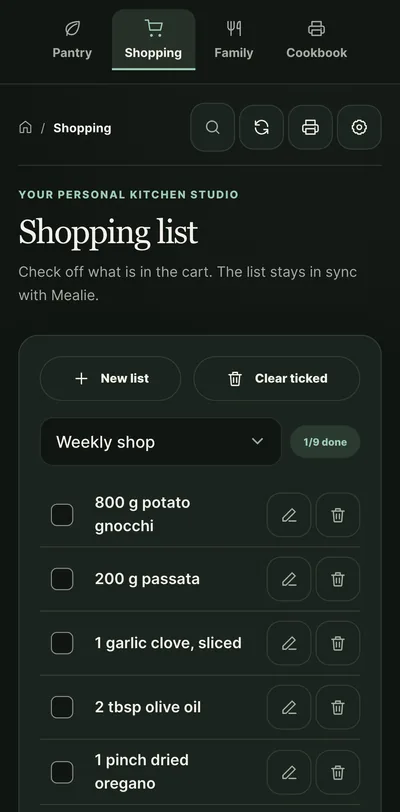
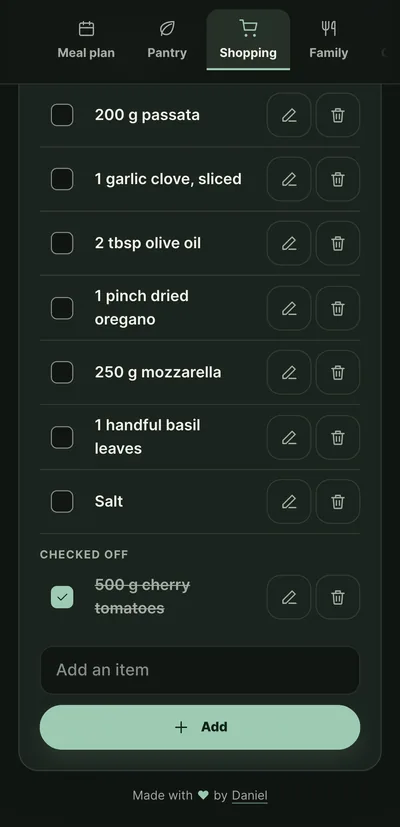
Rework the hero stage: readable devices up to 1279px, visible done item, clean phone capture, dial and entrance fixes

diff --git a/demo/live-demo.css b/demo/live-demo.css
@@ -562,7 +562,7 @@ h2 em {
    Dark only, like the rest of the page. */
 .hero-stage {
   position: relative;
-  aspect-ratio: 100 / 84;
+  aspect-ratio: 100 / 76;
   container-type: inline-size;
   isolation: isolate;
 }
@@ -570,15 +570,12 @@ h2 em {
   display: none;
   position: absolute;
   z-index: -1;
-  left: -4cqi;
-  top: 6cqi;
-  width: 74cqi;
   height: auto;
   pointer-events: none;
 }
 .hero-stage .dial path {
   fill: none;
-  stroke: rgba(242, 233, 216, 0.07);
+  stroke: rgba(242, 233, 216, 0.14);
   stroke-width: 0.9;
   stroke-linecap: round;
 }
@@ -683,7 +680,7 @@ h2 em {
   justify-content: space-between;
   height: calc(var(--w) * 0.128);
   padding: 0 calc(var(--w) * 0.09) 0 calc(var(--w) * 0.11);
-  background: #111713;
+  background: #121714;
   color: #f3f0e8;
   font: 600 calc(var(--w) * 0.043) / 1 var(--sans);
   letter-spacing: -0.01em;
@@ -720,25 +717,27 @@ h2 em {
   background: rgba(243, 240, 232, 0.85);
   z-index: 1;
 }
-@media (min-width: 981px) {
+/* Two columns only from 1280px: below that the devices would get less than 450px and the app text
+   on them less than 7px, so the stage sits under the copy at a readable width. */
+@media (min-width: 1280px) {
   .hero-grid {
     grid-template-columns: minmax(0, 4.6fr) minmax(0, 7.4fr);
   }
-}
-@media (min-width: 1280px) {
   .hero-stage {
     margin-right: -40px;
   }
 }
-@media (max-width: 980px) {
+@media (max-width: 1279px) {
   .hero-grid {
     grid-template-columns: 1fr;
   }
   .hero-stage {
-    margin-top: 16px;
+    width: 100%;
+    max-width: 880px;
+    margin: 16px auto 0;
   }
 }
-/* Phone: the tablet is not rendered (and not downloaded), the phone shows the list whole in front of the Week Dial. */
+/* Phone: the tablet is not rendered (and not downloaded), the phone stands in front of the Week Dial. */
 @media (max-width: 640px) {
   .hero-stage {
     aspect-ratio: auto;
@@ -762,7 +761,13 @@ h2 em {
   }
 }
 /* Entrance, only when the script confirmed that motion is welcome: with reduced motion the
-   devices simply stand there. */
+   devices simply stand there. The stage keeps .rv only so the observer marks it .in: its own fade
+   and lift are off, otherwise they would nest with the devices and add to their travel. */
+.reveal-ready .hero-stage.rv {
+  opacity: 1;
+  transform: none;
+  transition: none;
+}
 .reveal-ready .hero-stage .device {
   opacity: 0;
   transition:

diff --git a/scripts/capture-hero.py b/scripts/capture-hero.py
@@ -1,7 +1,8 @@
 """Capture the two hero screens of the product page from the built public demo.
 
   hero-tablet-cook     cooking mode of Gnocchi alla Sorrentina, step 1, kitchen timer reading 07:28
-  hero-phone-shopping  shopping list "Wocheneinkauf" filled from the same recipe, one item ticked
+  hero-phone-shopping  shopping list "Wocheneinkauf" filled from the same recipe, one item ticked, shown at
+                       the end of the list so the done section is on screen under the sticky tab rail
 
 The shots come from the real cards with the fixture data of the demo, a frozen clock and no pixel
 retouching. Every gate below fails the run instead of fixing a picture afterwards.
@@ -31,6 +32,14 @@ RECIPE = "gnocchi-alla-sorrentina"
 CLOCK = datetime.datetime(2026, 10, 26, 18, 52, 0)
 TABLET_WIDTHS = [800, 1200, 1600]
 PHONE_WIDTHS = [400, 700, 1179]
+# 1180 x 880: the dialog is then high enough for the step column down to its footnote. The Back and Next
+# bar sits below the dialog edge at every height from 701 px up (product layout), so the clip ends under the
+# footnote, a little before that bar, and the gate below checks that nothing inside the clip is cut.
+TABLET_VIEWPORT = {"width": 1180, "height": 880}
+FOOT_MARGIN = 5  # CSS px between the footnote and the lower clip edge
+# Viewport heights tried for the phone (CSS px, 393 wide, status bar drawn by the page not counted). The shot
+# ends at the end of the card; the height decides where the tab rail cuts the list, see PLACE_JS.
+PHONE_HEIGHTS = list(range(760, 861))
 SHAVE = 2  # device pixels cut from each side of the dialog clip (anti aliased edge)
 
 TEXT = {
@@ -47,19 +56,25 @@ FILL = (
 )
 # Capture only: the dialog is framed by the CSS device, so its own corners and border are removed.
 MODAL_FLAT = ".modal{border-radius:0!important;border:0!important;box-shadow:none!important}"
-# Capture only: the rail would fade its outer tabs, a tab at the edge would then read as cut.
-# Capture only: the screen is framed by the CSS device, so the card draws no border line of its own.
-CARD_FLAT = ".atelier{border:0!important;border-radius:0!important;box-shadow:none!important}"
-RAIL_PLAIN = ".sidebar .nav{-webkit-mask-image:none!important;mask-image:none!important;scroll-behavior:auto!important;scroll-snap-type:none!important}"
+# Capture only: the screen is framed by the CSS device, so the card draws no border line of its own. Its
+# `overflow: hidden` would make the card the scroll container of the sticky tab rail, so the rail would scroll
+# away inside the fixed capture box. Without it the rail sticks to the box, as it sticks to the page on a phone.
+CARD_FLAT = ".atelier{border:0!important;border-radius:0!important;box-shadow:none!important;overflow:visible!important}"
+# The phone tab rail fades 32 px at each end and snaps its tabs after that fade (product CSS in
+# polish.css). Nothing of the rail is restyled for the capture: only its scroll position is chosen, see RAIL_JS.
+RAIL_FADE = 32
+RAIL_CLEAR = 22  # the product mask is fully transparent up to here at the left end
 
-CUT_JS = """(card, sel) => {
+CUT_JS = """(card, opts) => {
+  // opts.sel: element that frames the shot (default the viewport); opts.top / opts.bottom: shot edges inside it.
   const out = [];
+  const sel = opts.sel;
   const frame = sel ? card.shadowRoot.querySelector(sel).getBoundingClientRect() : { left: 0, top: 0, right: innerWidth, bottom: innerHeight };
-  const view = { l: frame.left, t: frame.top, w: frame.right, h: frame.bottom };
+  const view = { l: frame.left, t: opts.top ?? frame.top, w: frame.right, h: opts.bottom ?? frame.bottom };
   const walk = (root) => {
     for (const el of root.querySelectorAll('*')) {
       if (el.shadowRoot) walk(el.shadowRoot);
-      if (!el.matches('button,input,label,p,h1,h2,h3,strong,small,time,span,a')) continue;
+      if (!el.matches('button,input,label,p,h1,h2,h3,strong,small,time,span,a,li')) continue;
       if (![...el.childNodes].some((n) => n.nodeType === 3 && n.textContent.trim())) continue;
       if (el.closest('.sidebar .nav')) continue; // the tab rail has its own gate
       const b = el.getBoundingClientRect();
@@ -76,36 +91,66 @@ CUT_JS = """(card, sel) => {
   return out;
 }"""
 
-RAIL_JS = """(card) => {
-  // The rail scrolls and cuts a tab at each end. Pick the run of whole tabs that holds the active
-  // one, fits the rail and shows the most tabs, then size the rail to that run and centre it.
+RAIL_JS = """(card, fade) => {
+  // Only the scroll position of the real rail is chosen: the left edge starts on a whole tab (a tab
+  // sits fully clear of the left fade), the active tab ends clear of the right fade. A tab at the right
+  // end may stay cut inside the app's own fade, that is the scroll hint of the product.
   const rail = card.shadowRoot.querySelector('.sidebar .nav');
   const base = rail.getBoundingClientRect();
   const tabs = [...rail.children].map((b) => {
     const r = b.getBoundingClientRect();
     return { text: b.textContent.trim(), left: r.left - base.left + rail.scrollLeft, width: r.width, active: b.classList.contains('active') };
   });
-  let best = null;
-  for (let i = 0; i < tabs.length; i++) {
-    for (let j = i; j < tabs.length; j++) {
-      const width = tabs[j].left + tabs[j].width - tabs[i].left;
-      const active = tabs.slice(i, j + 1).findIndex((t) => t.active);
-      if (width > rail.clientWidth || active < 0) continue;
-      const interior = active > 0 && active < j - i ? 1 : 0;
-      const score = [j - i + 1, interior, width];
-      if (!best || score.some((v, k) => (v !== best.score[k] ? v > best.score[k] : false) && score.slice(0, k).every((u, m) => u === best.score[m]))) best = { i, j, width, score };
-    }
+  const active = tabs.findIndex((t) => t.active);
+  const max = rail.scrollWidth - rail.clientWidth;
+  let target = null;
+  for (let i = 0; i <= active; i++) {
+    const left = tabs[i].left - fade;
+    if (left < 0 || left > max) continue;
+    if (tabs[active].left + tabs[active].width <= left + rail.clientWidth - fade) { target = left; break; }
   }
-  if (!best) return { failed: true };
-  rail.style.setProperty('width', best.width + 'px', 'important');
-  rail.style.setProperty('margin-inline', 'auto', 'important');
-  rail.scrollLeft = tabs[best.i].left;
+  if (target === null) return { failed: true, tabs };
+  rail.scrollTo({ left: target, behavior: 'instant' });
+  return { target };
+}"""
+
+RAIL_CHECK_JS = """(card, [fade, clear]) => {
+  const rail = card.shadowRoot.querySelector('.sidebar .nav');
   const r = rail.getBoundingClientRect();
-  const cut = [...rail.children].filter((b) => {
-    const x = b.getBoundingClientRect();
-    return (x.left < r.left - 0.5 && x.right > r.left + 0.5) || (x.left < r.right - 0.5 && x.right > r.right + 0.5);
-  }).map((b) => b.textContent.trim());
-  return { scrollLeft: rail.scrollLeft, width: best.width, cut, tabs: tabs.slice(best.i, best.j + 1).map((t) => t.text) };
+  const tabs = [...rail.children].map((b) => ({ text: b.textContent.trim(), box: b.getBoundingClientRect(), label: b.querySelector('span').getBoundingClientRect(), active: b.classList.contains('active') }));
+  // A tab at the left is clean when its label sits wholly in the opaque part (from the fade end) or
+  // wholly in the fully transparent part (the product mask is clear until 22 px).
+  const left = tabs.filter((t) => t.label.right > r.left + 0.5 && t.label.left < r.left + fade - 0.5 && t.label.right > r.left + clear).map((t) => t.text);
+  const right = tabs.filter((t) => t.box.right > r.right - fade + 0.5 && t.box.left < r.right - 0.5).map((t) => t.text);
+  const active = tabs.find((t) => t.active);
+  return {
+    scrollLeft: rail.scrollLeft,
+    cutLeft: left,
+    inRightFade: right,
+    activeClear: active.box.left >= r.left + fade - 0.5 && active.box.right <= r.right - fade + 0.5,
+    pos: tabs.map((t) => [t.text, Math.round(t.box.left - r.left), Math.round(t.box.right - r.left)]),
+    shown: tabs.filter((t) => t.box.right > r.left && t.box.left < r.right).map((t) => t.text),
+  };
+}"""
+
+
+# Scrolls the page to the end of the card and reports where the first row under the sticky tab rail
+# starts, plus every text element the rail covers half way.
+PLACE_JS = """(card) => {
+  const root = card.shadowRoot;
+  const y = Math.max(0, card.scrollHeight - card.clientHeight);
+  card.scrollTo({ top: y, behavior: 'instant' });
+  const rail = root.querySelector('.sidebar').getBoundingClientRect().bottom;
+  const rows = [...root.querySelectorAll('.shopping-row')];
+  const tops = rows.map((r) => r.getBoundingClientRect()).filter((b) => b.bottom > rail + 0.5);
+  const straddle = [];
+  for (const el of root.querySelectorAll('h2,h3,p,strong,span,small,label')) {
+    if (el.closest('.sidebar')) continue;
+    if (![...el.childNodes].some((n) => n.nodeType === 3 && n.textContent.trim())) continue;
+    const b = el.getBoundingClientRect();
+    if (b.width && b.top < rail - 0.5 && b.bottom > rail + 0.5) straddle.push(el.textContent.trim().slice(0, 30));
+  }
+  return { y, rail, firstRowTop: tops.length ? tops[0].top : null, straddle };
 }"""
 
 
@@ -124,7 +169,7 @@ def blur_everything(page, card):
     page.mouse.move(0, 0)
 
 
-def open_page(browser, loc, viewport, scale, mobile, url_tail):
+def open_page(browser, loc, viewport, scale, mobile, url_tail, style=FILL):
     ctx = browser.new_context(
         viewport=viewport,
         device_scale_factor=scale,
@@ -139,9 +184,14 @@ def open_page(browser, loc, viewport, scale, mobile, url_tail):
     page.goto(f"http://localhost:{PORT}/{loc}/{url_tail}")
     page.clock.run_for(3000)
     page.wait_for_load_state("networkidle")
-    page.add_style_tag(content=FILL)
+    page.add_style_tag(content=style)
     page.clock.run_for(800)
     card = page.locator("mealie-atelier-card")
+    for _ in range(30):
+        if page.evaluate("!!document.querySelector('mealie-atelier-card')?.shadowRoot"):
+            break
+        page.clock.run_for(500)
+        page.wait_for_timeout(100)
     # The page clock is a fake: give the recipe link time to open its dialog, step by step.
     for _ in range(30):
         if "?recipe=" not in url_tail or card.locator("[role=dialog]").count():
@@ -158,7 +208,7 @@ def check_language(loc, text):
 
 def capture_tablet(browser, loc):
     t = TEXT[loc]
-    ctx, page, card = open_page(browser, loc, {"width": 1180, "height": 820}, 2, False, f"?recipe={RECIPE}#live-demo")
+    ctx, page, card = open_page(browser, loc, TABLET_VIEWPORT, 2, False, f"?recipe={RECIPE}#live-demo")
     card.evaluate("c => { const s = document.createElement('style'); s.textContent = %s; c.shadowRoot.appendChild(s); }" % json.dumps(MODAL_FLAT))
     # Pin the page clock (it also follows real time while Playwright works) so the timer runs only
     # on the 32 seconds advanced below.
@@ -174,15 +224,21 @@ def capture_tablet(browser, loc):
     assert "01 / 03" in counter, "step counter is not 01 / 03"
     check_language(loc, counter)
     box = card.locator("[role=dialog]").first.bounding_box()
+    foot = card.evaluate(
+        "c => { const r = c.shadowRoot; const f = r.querySelector('.cook-footnote').getBoundingClientRect(); "
+        "const a = r.querySelector('.cook-actions').getBoundingClientRect(); return { bottom: f.bottom, bar: a.top }; }"
+    )
+    bottom = foot["bottom"] + FOOT_MARGIN
+    assert bottom <= foot["bar"] and bottom <= box["y"] + box["height"], f"the footnote does not fit above the action bar: {foot} {box}"
     scale = 2
     clip = {
         "x": box["x"] + SHAVE / scale,
         "y": box["y"] + SHAVE / scale,
         "width": box["width"] - 2 * SHAVE / scale,
-        "height": box["height"] - 2 * SHAVE / scale,
+        "height": bottom - box["y"] - 2 * SHAVE / scale,
     }
     png = page.screenshot(clip=clip)
-    cut = card.evaluate(CUT_JS, "[role=dialog]")
+    cut = card.evaluate(CUT_JS, {"sel": "[role=dialog]", "bottom": bottom})
     print(loc, "tablet cut:", cut or "none", "| timer", dial)
     ctx.close()
     return Image.open(io.BytesIO(png)).convert("RGB"), cut
@@ -190,7 +246,7 @@ def capture_tablet(browser, loc):
 
 def capture_phone(browser, loc):
     t = TEXT[loc]
-    ctx, page, card = open_page(browser, loc, {"width": 393, "height": 798}, 3, True, f"?recipe={RECIPE}#live-demo")
+    ctx, page, card = open_page(browser, loc, {"width": 393, "height": PHONE_HEIGHTS[0]}, 3, True, f"?recipe={RECIPE}#live-demo")
     dialog = card.locator("[role=dialog]")
     submit = dialog.locator("button:not([data-action])")
     card.locator("[data-action='cook-to-recipe']").click()
@@ -225,16 +281,36 @@ def capture_phone(browser, loc):
     assert count == 9, f"the new list holds {count} items, expected the nine Gnocchi ingredients"
     card.locator("[data-action='shopping-toggle']").nth(1).click()  # tick the tomatoes, stays in the list
     page.clock.run_for(1200)
-    card.evaluate("c => { const s = document.createElement('style'); s.textContent = %s; c.shadowRoot.appendChild(s); }" % json.dumps(CARD_FLAT + RAIL_PLAIN))
-    card.evaluate("c => c.scrollTo && c.scrollTo(0, 0)")
-    rail = card.evaluate(RAIL_JS)
-    assert rail and not rail.get("failed") and not rail["cut"], f"tab rail has a cut label: {rail}"
+    page.clock.run_for(7000)  # the "saved" toast of the tick leaves on its own
+    card.evaluate("c => { const s = document.createElement('style'); s.textContent = %s; c.shadowRoot.appendChild(s); }" % json.dumps(CARD_FLAT))
+    # Real phone behaviour: the content scrolls, the tab rail stays on top. The shot shows the end of the list
+    # with the done section. A viewport height is chosen where the rail covers no row half way.
+    placed = None
+    tried = []
+    for height in PHONE_HEIGHTS:
+        page.set_viewport_size({"width": 393, "height": height})
+        page.clock.run_for(400)
+        info = card.evaluate(PLACE_JS)
+        tried.append((height, info))
+        if not info["straddle"] and info["firstRowTop"] is not None and -3 <= info["firstRowTop"] - info["rail"] <= 4:
+            placed = (height, info)
+            break
+    assert placed, f"no viewport height lets the tab rail end between two rows: {[(h, round(i["firstRowTop"] - i["rail"], 1), i["straddle"]) for h, i in tried[::4]]}"
+    page.clock.run_for(400)
+    rail_move = card.evaluate(RAIL_JS, RAIL_FADE)
+    assert not rail_move.get("failed"), f"no scroll position keeps the active tab whole: {rail_move}"
+    page.clock.run_for(800)
+    rail = card.evaluate(RAIL_CHECK_JS, [RAIL_FADE, RAIL_CLEAR])
+    assert not rail["cutLeft"] and rail["activeClear"], f"tab rail has a cut label: {rail}"
+    toast = card.evaluate("c => [...c.shadowRoot.querySelectorAll('.toast, [role=status]')].filter((e) => e.getBoundingClientRect().height).map((e) => e.innerText)")
+    assert not toast, f"a toast is on screen: {toast}"
     blur_everything(page, card)
     page.clock.run_for(500)
     page.wait_for_timeout(200)
     png = page.screenshot()
-    cut = card.evaluate(CUT_JS, None)
-    print(loc, "phone rail:", rail, "| cut:", cut or "none")
+    rail_bottom = placed[1]["rail"]
+    cut = card.evaluate(CUT_JS, {"top": rail_bottom})
+    print(loc, "phone height", placed[0], "| rail", {k: rail[k] for k in ("scrollLeft", "inRightFade", "shown")}, "| cut:", cut or "none")
     text = card.evaluate("c => [...c.shadowRoot.children].filter((e) => e.tagName !== 'STYLE').map((e) => e.innerText).join(' ')")
     check_language(loc, text)
     ctx.close()

diff --git a/README.md b/README.md
@@ -198,7 +198,7 @@ npm run build && npm test && npm run check
 node --test web/test/*.test.mjs
 ```
 
-The two hero screens of the product page (kitchen tablet in cooking mode, phone with the shopping list) are real captures of the public demo. Recapture them after changing the demo fixtures or the look of those views: build the demo with `npm run build:demo`, then run `npm run capture:hero`. It needs [uv](https://docs.astral.sh/uv/) and a Playwright Chromium (`uv run --with playwright playwright install chromium`), freezes the clock, checks that no text is cut and that the timer reads 07:28, and writes `demo/showcase/<locale>/hero-*.webp` plus `demo/showcase/manifest.json`. Pictures are never retouched.
+The two hero screens of the product page (kitchen tablet in cooking mode, phone with the shopping list) are real captures of the public demo. Recapture them after changing the demo fixtures or the look of those views: build the demo with `npm run build:demo`, then run `npm run capture:hero`. It needs [uv](https://docs.astral.sh/uv/) and a Playwright Chromium (`uv run --with playwright playwright install chromium`), freezes the clock, checks that no text is cut (the tablet ends under its footnote, the phone shows the end of the list under the sticky tab rail with the ticked item) and that the timer reads 07:28, and writes `demo/showcase/<locale>/hero-*.webp` plus `demo/showcase/manifest.json`. Pictures are never retouched.
 
 Changes are in the [changelog](CHANGELOG.md), contribution rules in [CONTRIBUTING.md](CONTRIBUTING.md). Live acceptance tests against disposable Mealie and Home Assistant containers live in the [Bridge repository](https://github.com/mealie-atelier/mealie-atelier-bridge/tree/main/tests/live).
 
